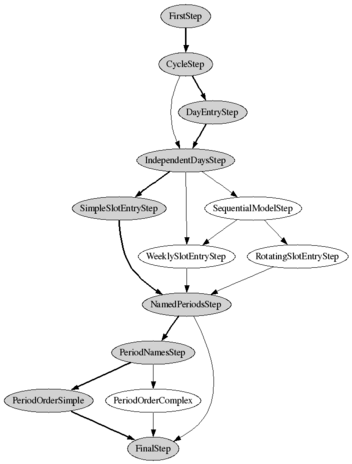
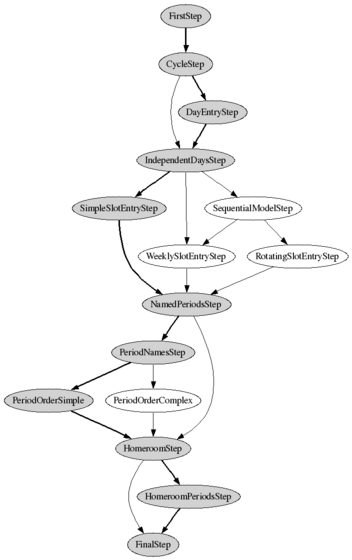
Update the test plan to include the new homeroom steps.  Add the "do you have a homeroom?" question step to the timetable wizard.

Changed region(s): [[0.0, 0.0, 1.0, 0.9957]]

diff --git a/src/schooltool/timetable/browser/ttwizard.py b/src/schooltool/timetable/browser/ttwizard.py
@@ -24,6 +24,9 @@ on the schooltool mailing list, in ttschema-wireframes.pdf[1].
 
     [1] http://lists.schooltool.org/pipermail/schooltool/2005-June/001347.html
 
+It has been slightly modified since.  You can find an up-to-date diagram
+of the workflow in src/schooltool/app/browser/ftests/images/
+
 The workflow is as follows:
 
     1. "New timetable schema"
@@ -92,13 +95,21 @@ The workflow is as follows:
 
         (The user sees a grid of drop-downs.)
 
-    14. The timetable schema is created.
+    14. "Does your school have a homeroom period?"
+
+        Skip to step 16 if it doesn't.
+
+    15. "Indicate which period is the homeroom period."
+
+        (The user sees a list of drop-downs.)
+
+    16. The timetable schema is created.
 
 
-The shortest path through this workflow contains 6 steps, the longest contains
-11 steps.
+The shortest path through this workflow contains 7 steps, the longest contains
+13 steps.
 
-Step 14 needs the following data:
+Step 16 needs the following data:
 
     - title (determined in step 1)
     - timetable model factory (determined in step 2)
@@ -523,7 +534,7 @@ class NamedPeriodsStep(ChoiceStep):
         if session['named_periods']:
             return PeriodNamesStep(self.context, self.request)
         else:
-            return FinalStep(self.context, self.request)
+            return HomeroomStep(self.context, self.request)
 
 
 class PeriodNamesStep(FormStep):
@@ -627,7 +638,7 @@ class PeriodOrderSimple(Step):
         return True
 
     def next(self):
-        return FinalStep(self.context, self.request)
+        return HomeroomStep(self.context, self.request)
 
 
 class PeriodOrderComplex(Step):
@@ -684,7 +695,30 @@ class PeriodOrderComplex(Step):
         return True
 
     def next(self):
-        return FinalStep(self.context, self.request)
+        return HomeroomStep(self.context, self.request)
+
+
+class HomeroomStep(ChoiceStep):
+    """A step for choosing whether the school has homeroom periods."""
+
+    key = 'homeroom'
+
+    question = _("Do you check student attendance for the day in a homeroom"
+                 " period or equivalent?")
+
+    choices = (('yes', _("Yes")),
+               ('no',  _("No")))
+
+    def next(self):
+        session = self.getSessionData()
+        if session['homeroom'] == 'yes':
+            # TODO: HomeroomPeriodsStep
+            return FinalStep(self.context, self.request)
+        else:
+            return FinalStep(self.context, self.request)
+
+
+# TODO: HomeroomPeriodsStep
 
 
 class FinalStep(Step):

diff --git a/src/schooltool/timetable/browser/tests/test_ttwizard.py b/src/schooltool/timetable/browser/tests/test_ttwizard.py
@@ -760,7 +760,7 @@ def doctest_NamedPeriodsStep():
 
         >>> view.getSessionData()['named_periods'] = False
         >>> view.next()
-        <...ttwizard.FinalStep...>
+        <...ttwizard.HomeroomStep...>
 
     """
 
@@ -836,12 +836,13 @@ def doctest_PeriodNamesStep():
         >>> view.getSessionData()['period_names']
         [u'A', u'B', u'C', u'D']
 
-    The next page is FinalStep.
+    The next page is HomeroomStep.
 
         >>> view.next()
         <schooltool.timetable.browser.ttwizard.PeriodSequenceSameStep ...>
 
     """
+
 
 def doctest_PeriodSequenceSameStep():
     r"""Unit test for PeriodSequenceSameStep
@@ -865,6 +866,7 @@ def doctest_PeriodSequenceSameStep():
         <schooltool.timetable.browser.ttwizard.PeriodOrderComplex...>
 
     """
+
 
 def doctest_PeriodOrderSimple():
     """Unit test for PeriodOrderSimple view
@@ -945,7 +947,7 @@ def doctest_PeriodOrderSimple():
     The next step is always the final step:
 
         >>> view.next()
-        <...ttwizard.FinalStep ...>
+        <...ttwizard.HomeroomStep ...>
 
     If not all periods are in the request, update fails and the user
     gets an error.  This is unlikely in real life as the dropdowns
@@ -1127,7 +1129,7 @@ def doctest_PeriodOrderComplex():
     The next step is always the final step:
 
         >>> view.next()
-        <...ttwizard.FinalStep ...>
+        <...ttwizard.HomeroomStep ...>
 
     If not all periods are in the request, update fails and the user
     gets an error.  This is unlikely in real life as the dropdowns
@@ -1284,6 +1286,33 @@ def doctest_PeriodOrderComplex_weekly_rotating():
 
         >>> view.numSlots()
         [1, 1, 3, 1, 1]
+
+    """
+
+
+def doctest_HomeroomStep():
+    r"""Unit test for HomeroomStep
+
+        >>> from schooltool.timetable.browser.ttwizard import HomeroomStep
+        >>> context = app['ttschemas']
+        >>> request = TestRequest()
+        >>> view = HomeroomStep(context, request)
+
+    If you say that your school does not take attendance in a homeroom period,
+    you will be redirected to FinalStep.
+
+        >>> session = view.getSessionData()
+        >>> session['homeroom'] = 'no'
+        >>> view.next()
+        <...ttwizard.FinalStep...>
+
+    Otherwise, you will have to specify the homeroom period for each day
+
+    XXX not implemented yet
+
+        >>> session['homeroom'] = 'yes'
+        >>> view.next()
+        <...ttwizard.FinalStep...>
 
     """
 
